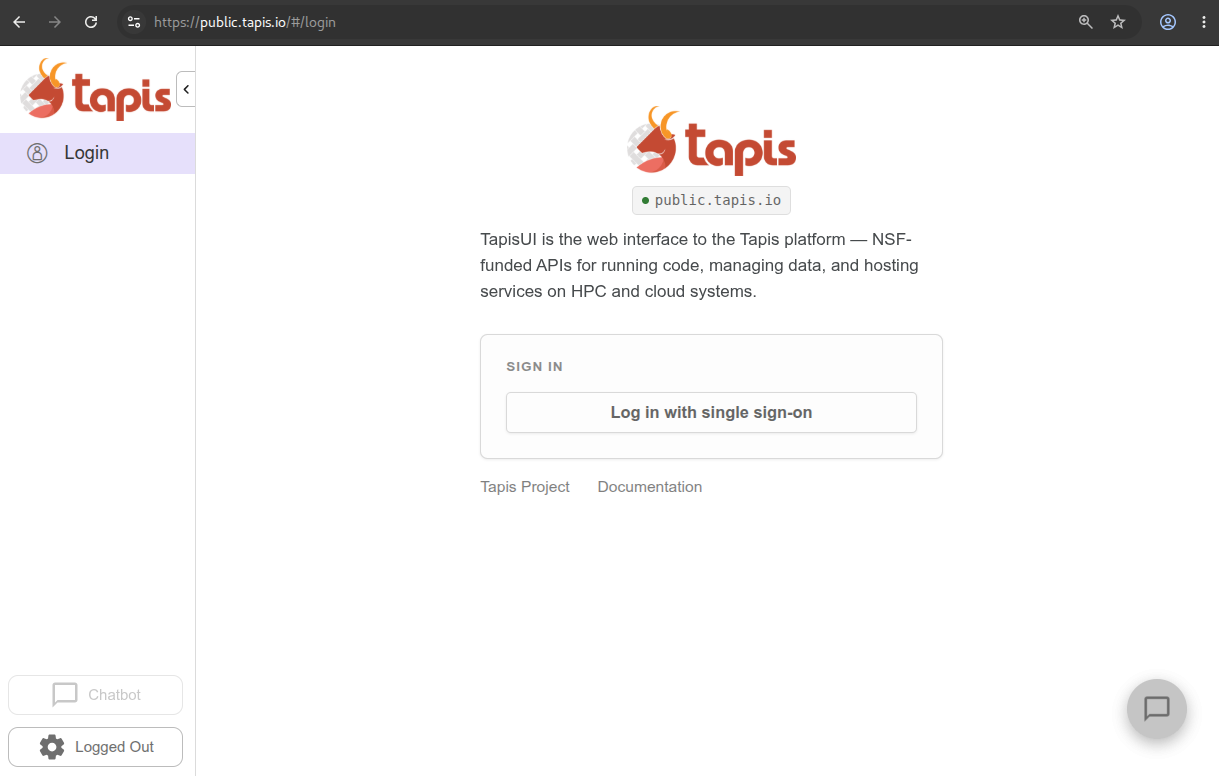
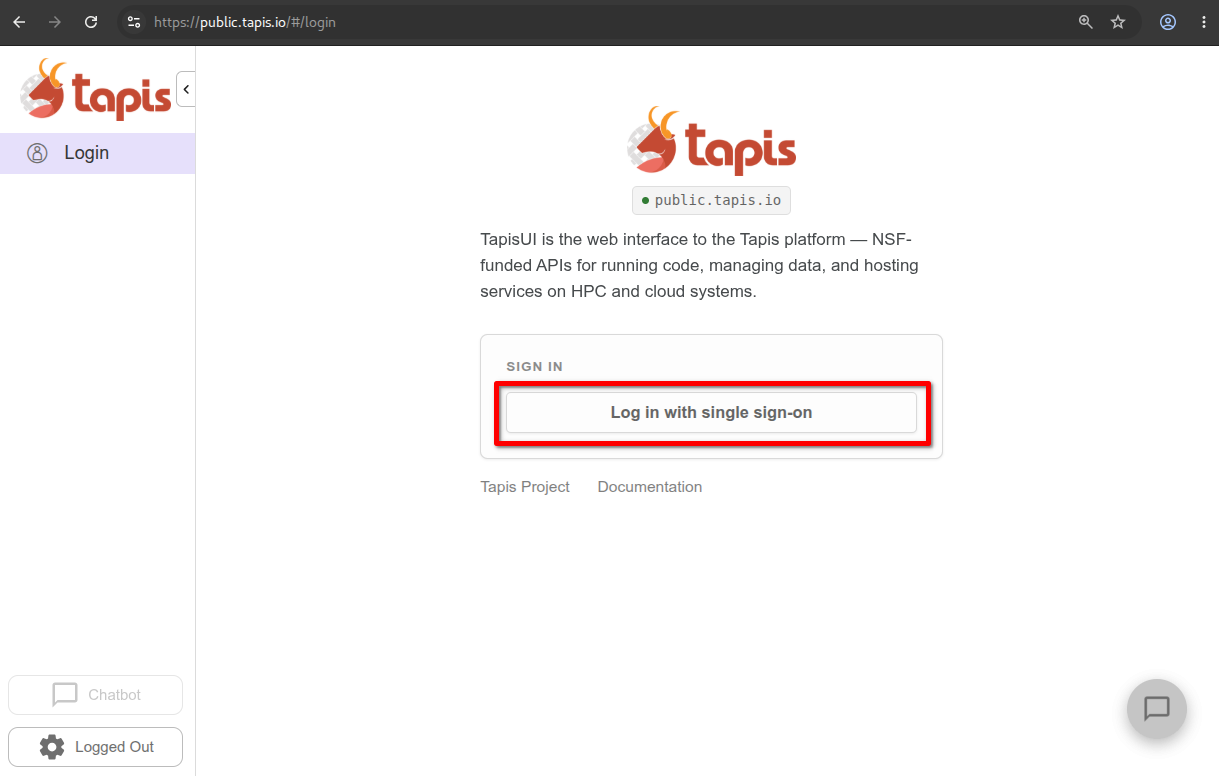
Added page overview. Added glow to login redirect sign in image.

Changed region(s): [[0.4053, 0.4639, 0.7793, 0.5876]]

diff --git a/tutorials/assets/css/custom.css b/tutorials/assets/css/custom.css
@@ -3,6 +3,16 @@
   box-shadow: 0 0 .7rem rgba(0, 0, 0, 0.5);
 }
 
+/* Linked images glow in the Submit Job blue so they read as links — opt in with {:.link-glow} */
+.markdown-body img.link-glow {
+  box-shadow: 0 0 0 2px rgba(21, 101, 192, 0.5), 0 0 1rem rgba(21, 101, 192, 0.6);
+  transition: box-shadow 0.15s ease-in-out;
+}
+.markdown-body a:hover img.link-glow,
+.markdown-body a:focus-visible img.link-glow {
+  box-shadow: 0 0 0 3px rgba(21, 101, 192, 0.8), 0 0 1.5rem rgba(21, 101, 192, 0.8);
+}
+
 /* Callout boxes — use <div class="callout callout-warning"> etc. */
 .callout {
   padding: 12px 16px;

diff --git a/tutorials/Intro_Tapis/02-initial-tapis-ui.md b/tutorials/Intro_Tapis/02-initial-tapis-ui.md
@@ -4,7 +4,7 @@
 
 Login to [https://public.tapis.io](https://public.tapis.io). Visit the site and press the "Log in with single sign-on" button.
 
-[![Log in view](/tutorials/assets/demo/login-proceed.png){:style="max-width:80%;"}](https://public.tapis.io){:target="_blank"}
+[![Log in view](/tutorials/assets/demo/login-proceed.png){:.link-glow style="max-width:64%;"}](https://public.tapis.io){:target="_blank"}
 
 Once you click, you will be redirected to your institute's authentication and prompted to log-in with username, password, and MFA token.
 
@@ -90,6 +90,22 @@ Look for the application **FlexServ-1.4.0 version 1.4.0** **(2)** in the public 
 ![FlexServ Application](/tutorials/images/2.9_Flexserv_app.png)
 
 FlexServ supports running various AI models from Hugging Face, provides an OpenAI-compatible API, and includes a built-in UI for chat completion and code generation. We will use it in later sections to run inference jobs and generate code.
+
+---
+
+## TapisUI Page Overview
+We've created these helpful diagrams to outline our page layouts.
+
+In the **Systems** page overview here you'll see the sidebar, nav bar, and overview section grouped along with quick setting explanations to view documentation and change page layout.
+
+![Overview of Systems Page Components](/tutorials/images/systemOverview.png)
+
+In the **Jobs** page overview here you'll see the search, sort, and grouping bar shown in red. In blue you'll find the job overview section with detailed sections on lifecycle, access, and working resources. If a Flexserv or other interactive session (Paraview, Jupyter) are running you'll conditionally see a "FlexServ Session" or other box which will guide users to viewable urls based off of tapisjob.out.
+
+You'll find a file explorer on this page once a job is running which will quickly navigate users to output files. The pink noted section provides quick buttons to preview job-pertinent directories.
+
+![Overview of Job Page Components](/tutorials/images/jobOverview.png)
+
 
 ---
 
